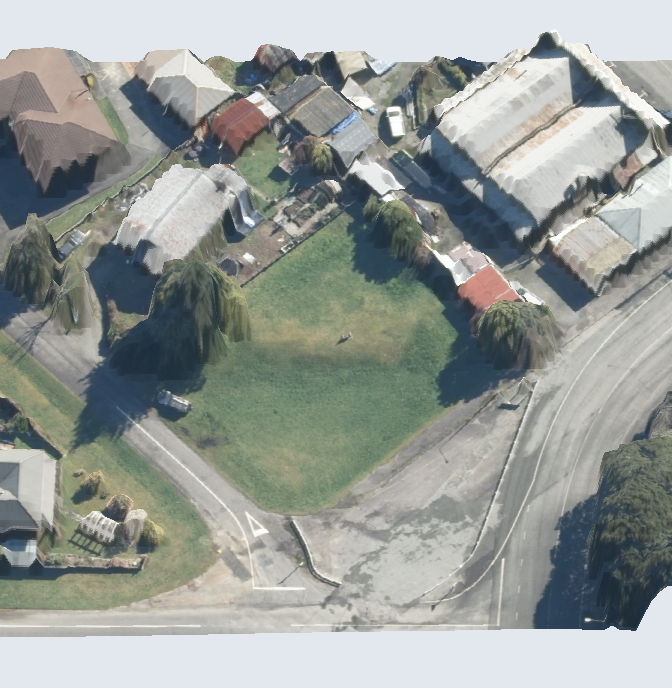
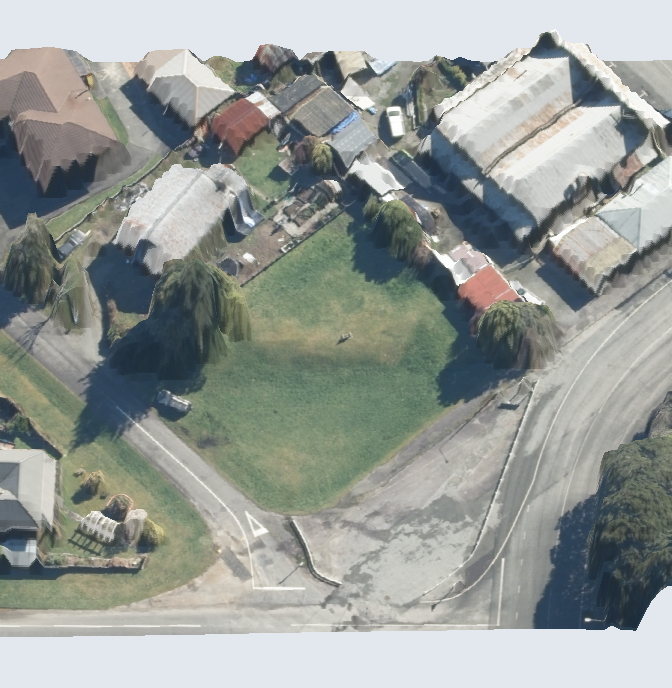
Relief results rerun at 54ad6d5 (#149): parallax in 2.1 s, the fly-over in 9.8 s

diff --git a/docs/results/README.md b/docs/results/README.md
@@ -294,7 +294,7 @@ street's edge:
 
 ## Relief views: the photo made 3D by its own LiDAR (`button_nz.bench.relief`, #149)
 
-**On the demo site** ([report](relief/report.md), code a1a3326). The aerial
+**On the demo site** ([report](relief/report.md), code 54ad6d5). The aerial
 and the 1 m DSM share a grid, so every view is measured: no depth is
 estimated and nothing is generated. Times count from when the site's data
 is in memory (reading it from LINZ took 5.2 s first), on one RTX 5090.
@@ -302,8 +302,8 @@ is in memory (reading it from LINZ took 5.2 s first), on one RTX 5090.
 | Tier | What it is | Ready after (s) |
 |---|---|---|
 | depth | the DSM on the photo's pixels, as a 16-bit depth map for video editors | 0.08 |
-| parallax | the photo lifted onto its heights, a 4 s tilt-and-sway clip (numpy, no GPU) | 1.95 |
-| flyover | the photo draped on the DSM in Blender, a 4 s fly-over at 1280 x 720 | 9.71 |
+| parallax | the photo lifted onto its heights, a 4 s tilt-and-sway clip (numpy, no GPU) | 2.09 |
+| flyover | the photo draped on the DSM in Blender, a 4 s fly-over at 1280 x 720 | 9.84 |
 
 So an owner can see the photo stand up in 3D in about 2 s, and the
 fly-over replaces it within 10 s. A photo taken straight down never saw a

diff --git a/docs/results/relief/report.md b/docs/results/relief/report.md
@@ -1,6 +1,6 @@
 # Relief views: how soon each is ready (#149)
 
-The demo site, 35 Victory Street, Reefton; code a1a3326. Reading its DEM, DSM and aerial
+The demo site, 35 Victory Street, Reefton; code 54ad6d5. Reading its DEM, DSM and aerial
 from LINZ took 5.2 s, before any tier ran; a built site in the app
 has them on disk. **Ready after** counts from when the tiers start, so it
 is how long an owner waits for each view.
@@ -8,8 +8,8 @@ is how long an owner waits for each view.
 | Tier | Status | Ready after (s) | Took (s) |
 |---|---|---|---|
 | depth | ready | 0.08 | 0.08 |
-| parallax | ready | 1.95 | 1.86 |
-| flyover | ready | 9.71 | 7.77 |
+| parallax | ready | 2.09 | 2.01 |
+| flyover | ready | 9.84 | 7.75 |
 
 ![depth](depth.png)
 
